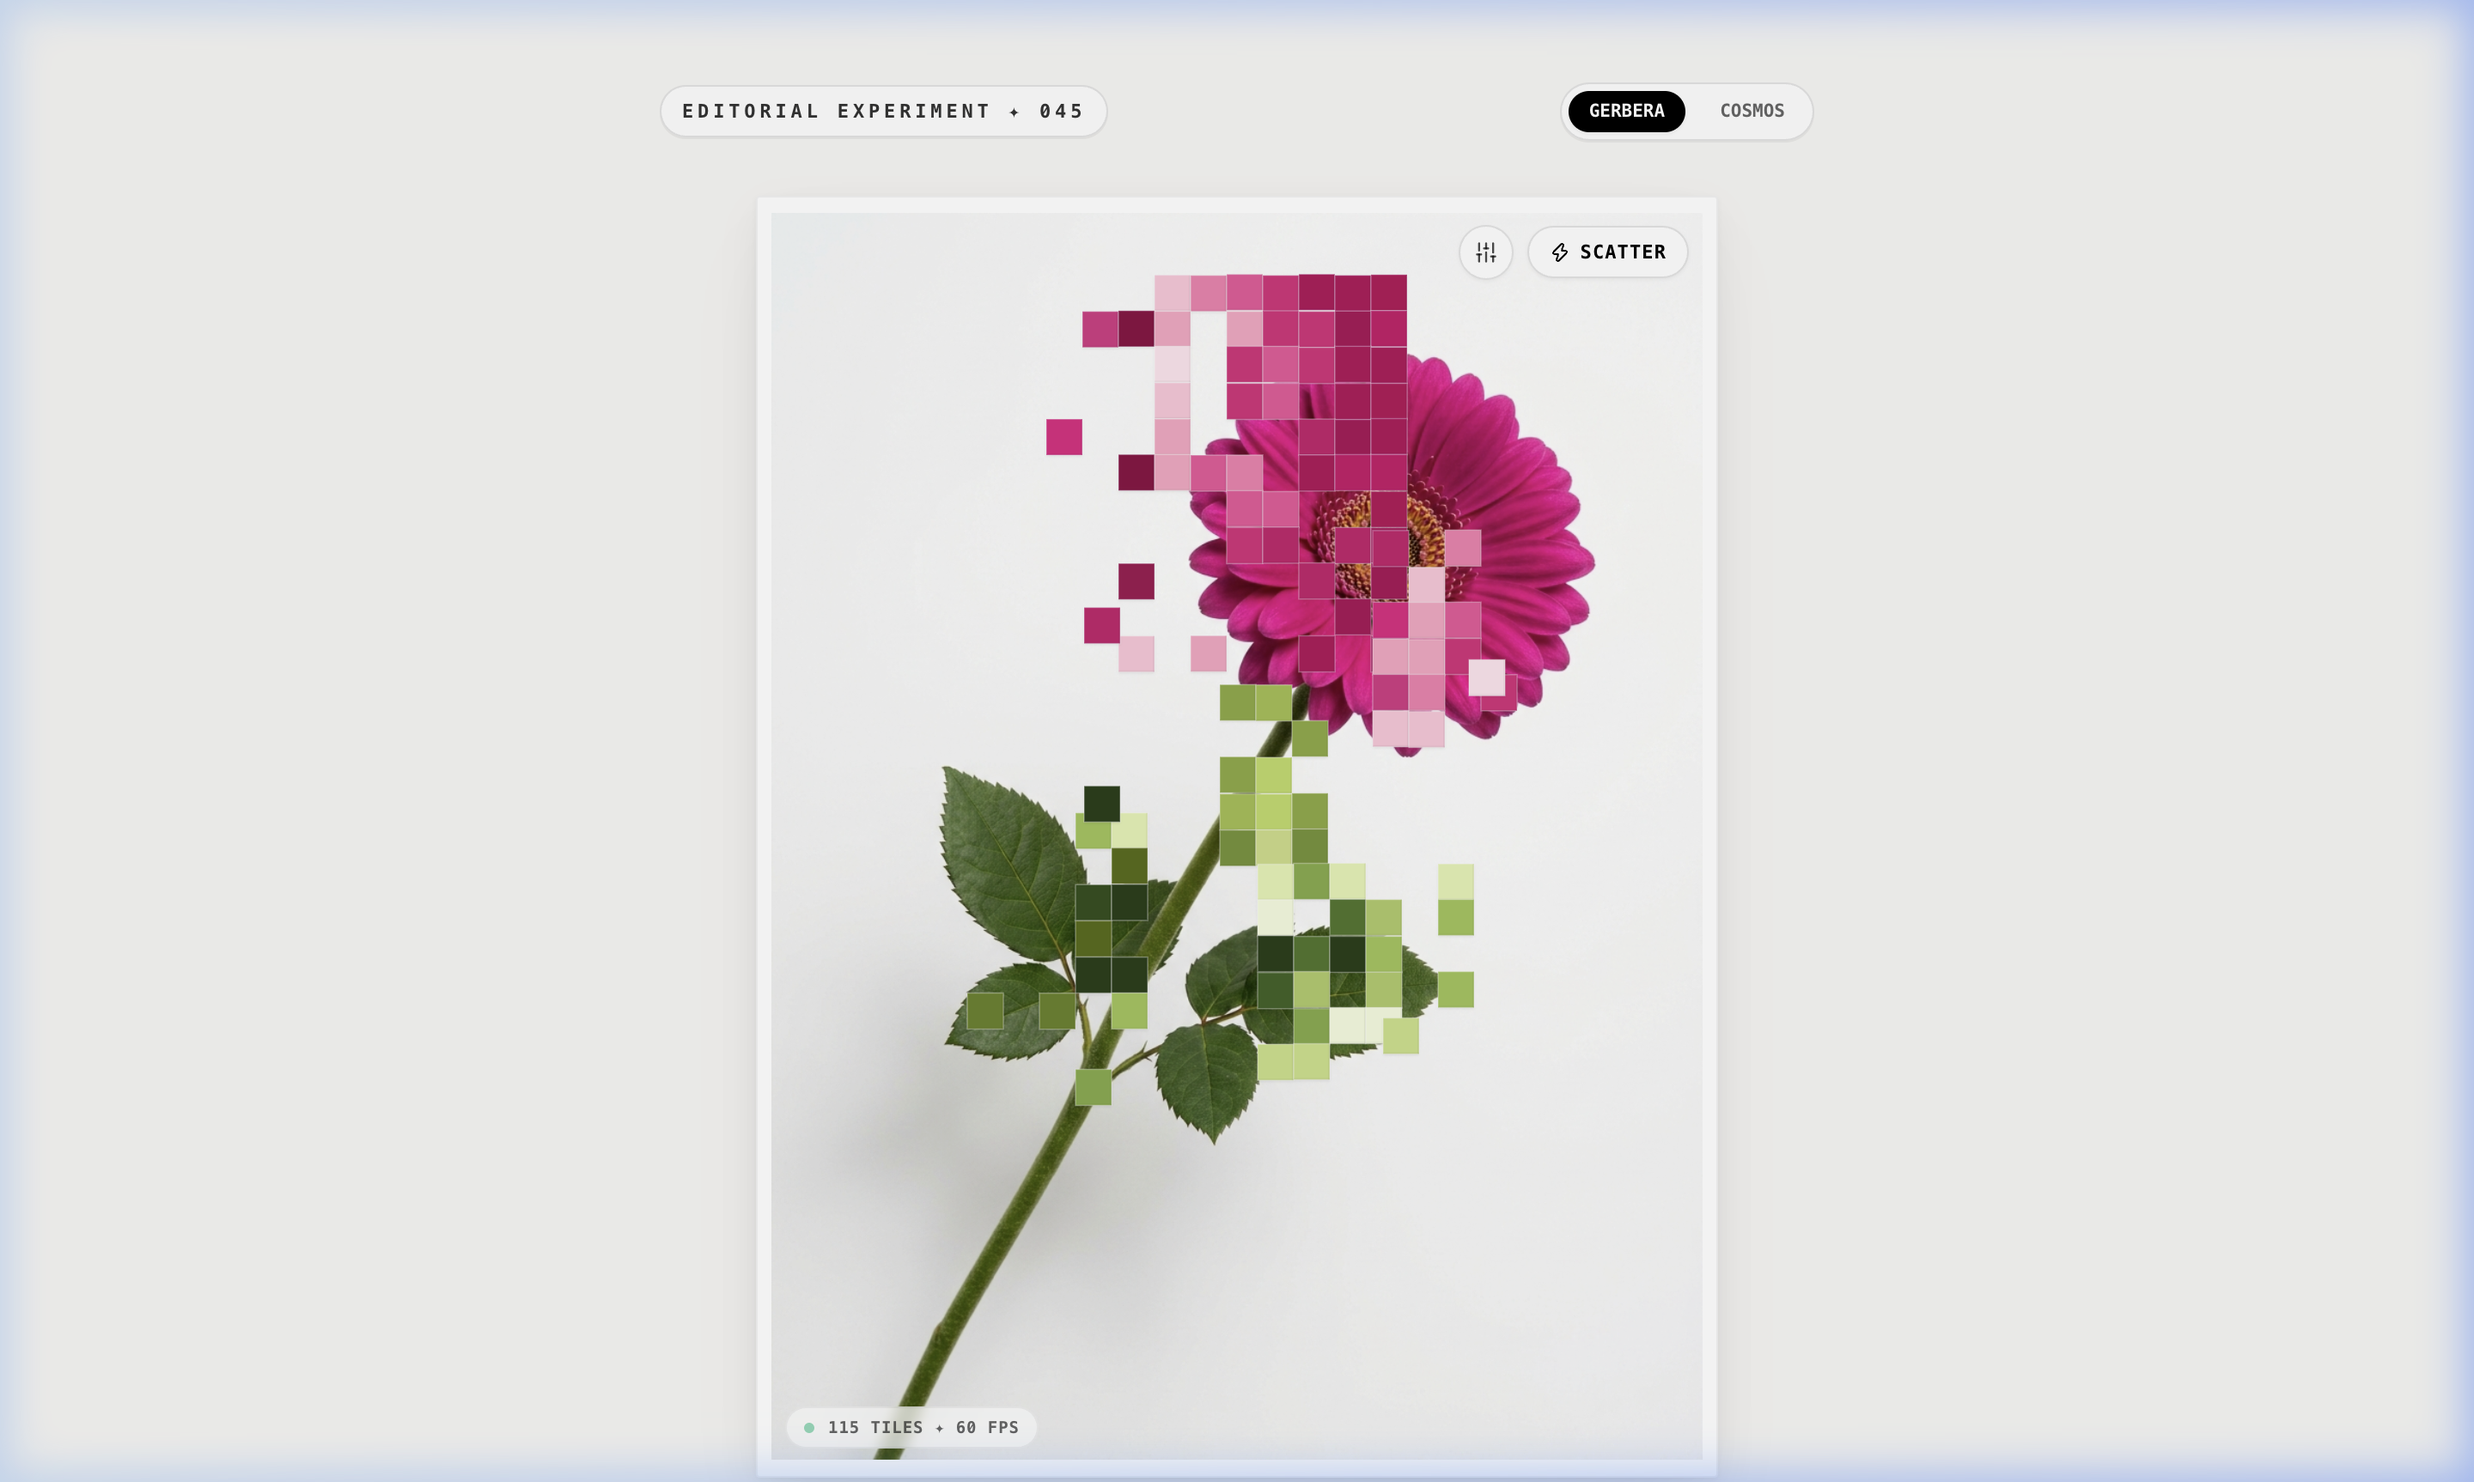
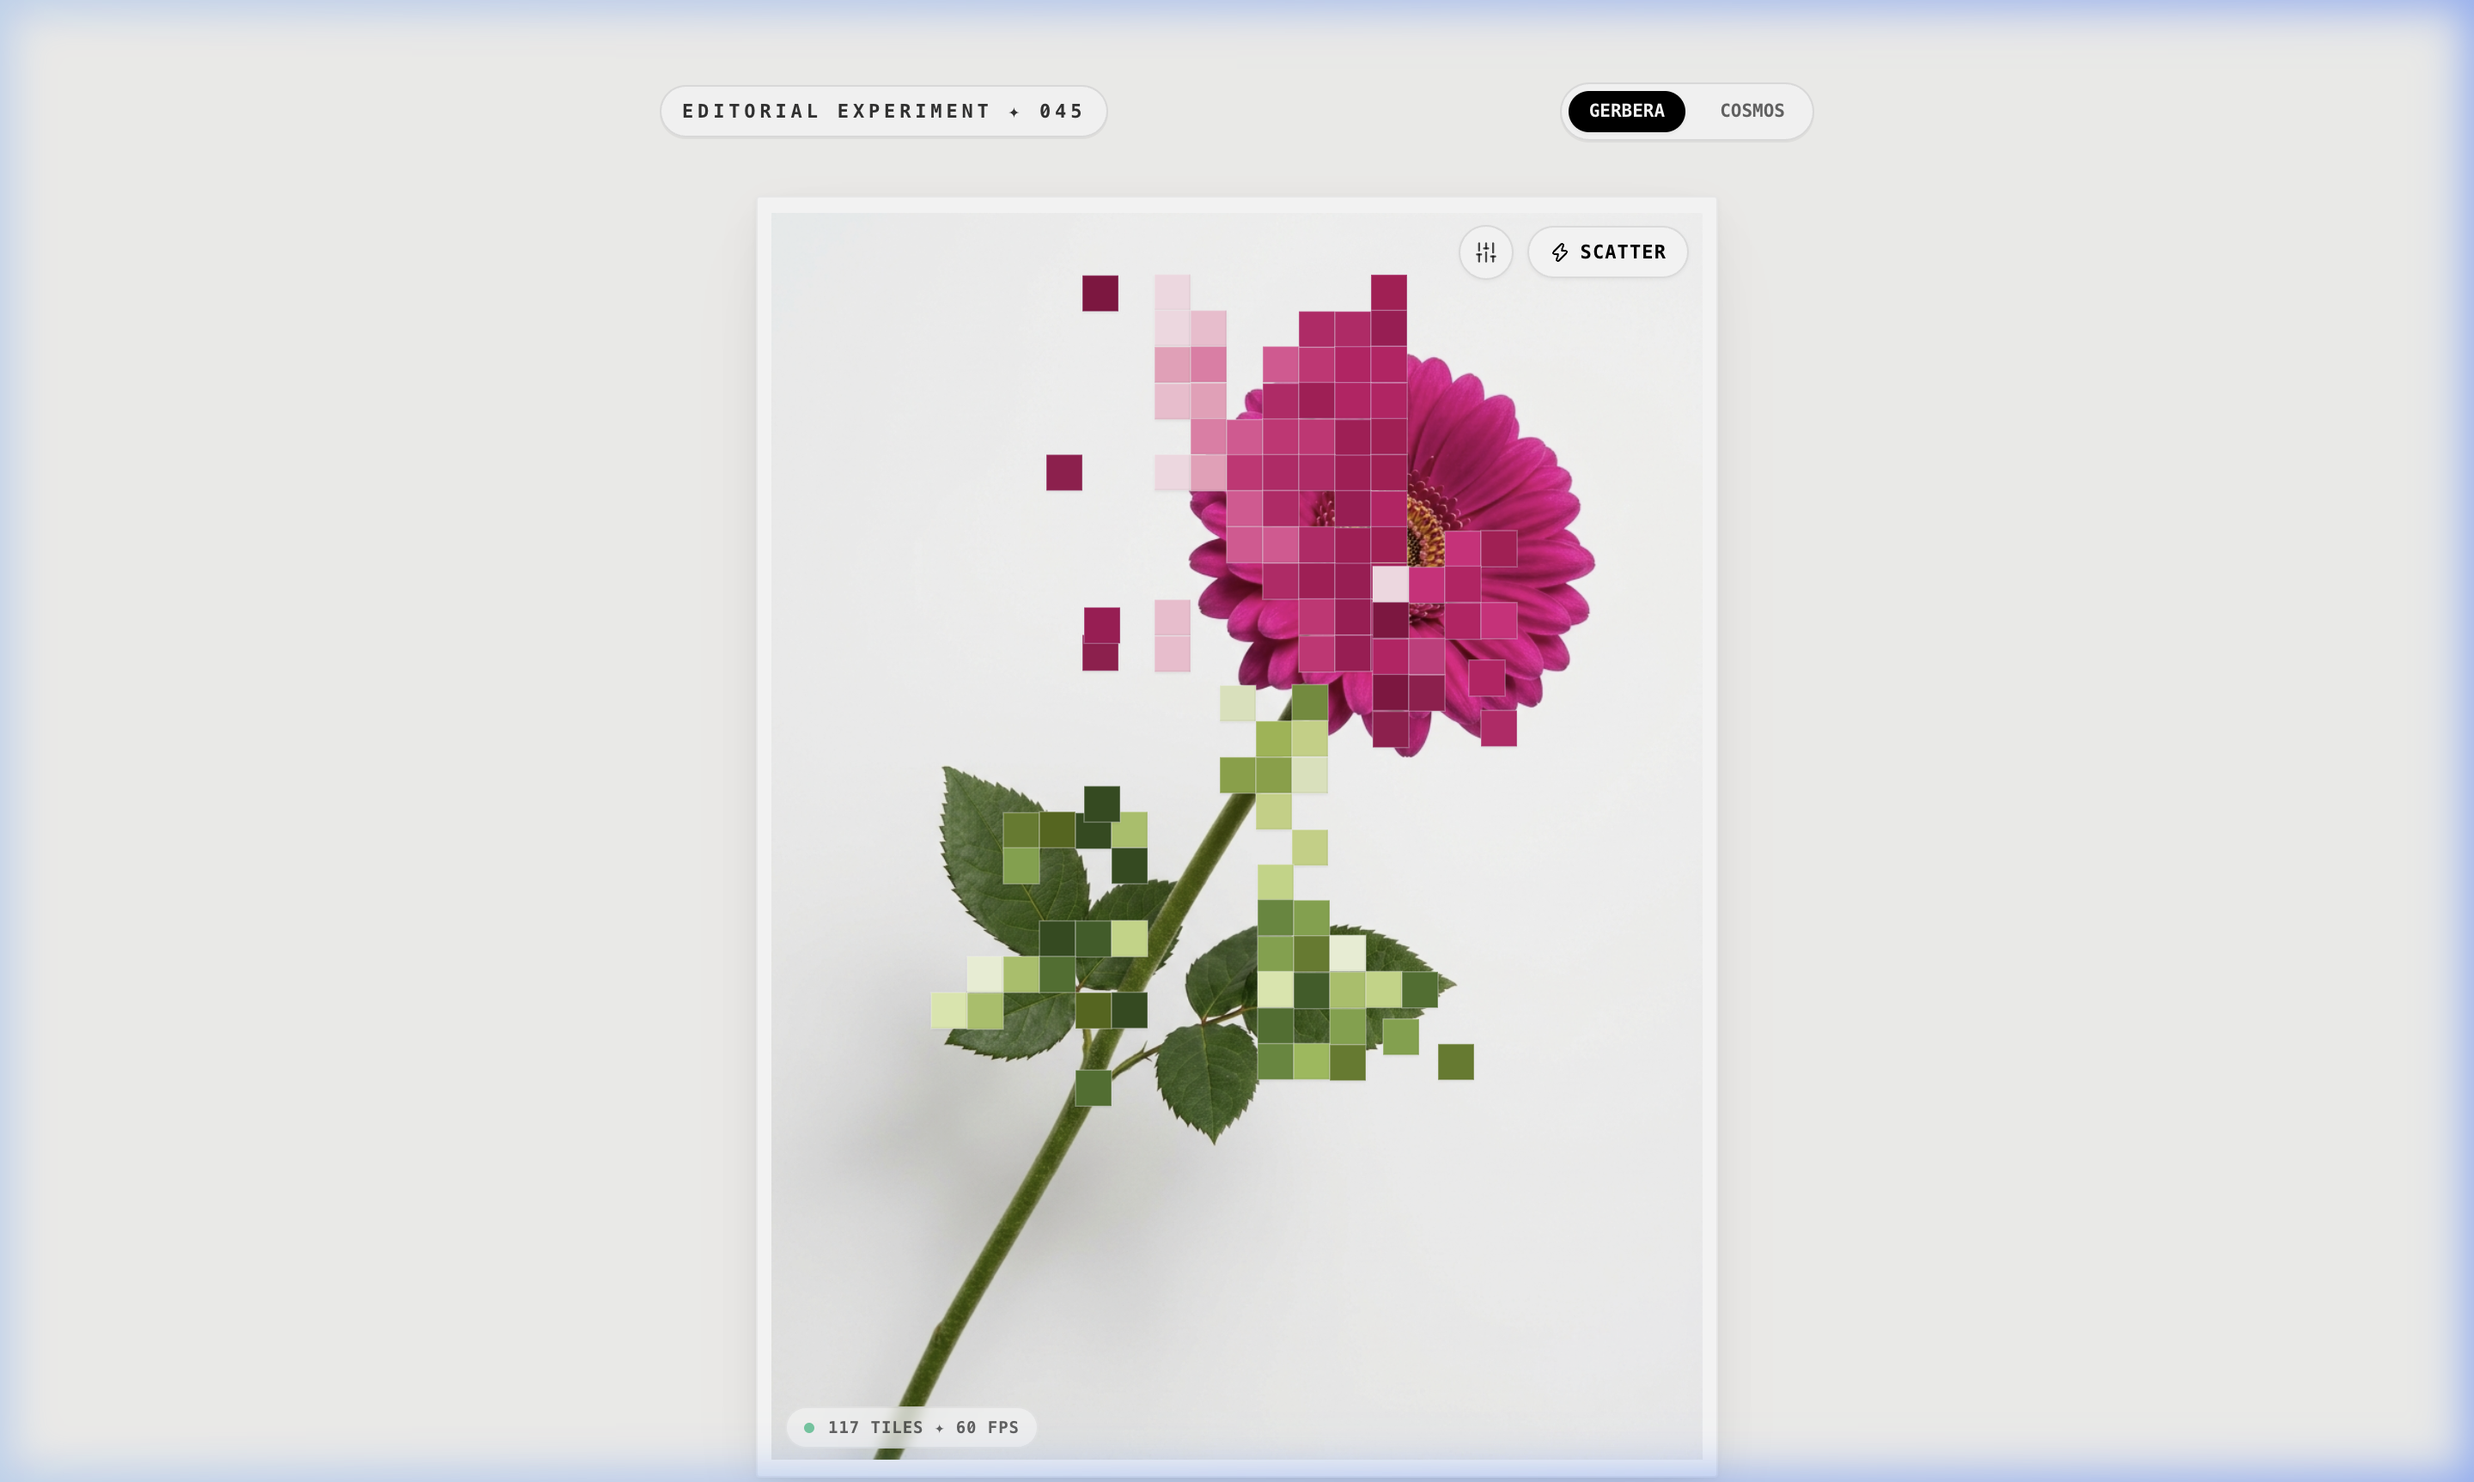
feat: add botanical-pixel-dispersion component with interactive canvas physics and documentation

Changed region(s): [[0.375, 0.1842, 0.625, 0.7677]]

diff --git a/botanical-pixel-dispersion/components/botanical-pixel-dispersion.tsx b/botanical-pixel-dispersion/components/botanical-pixel-dispersion.tsx
@@ -23,6 +23,8 @@ export interface PixelTile {
   id: number
   homeX: number
   homeY: number
+  targetX: number
+  targetY: number
   x: number
   y: number
   vx: number
@@ -164,6 +166,8 @@ export function BotanicalPixelDispersion({
             id: idCounter++,
             homeX: x,
             homeY: y,
+            targetX: x,
+            targetY: y,
             x: x + (Math.random() - 0.5) * 3,
             y: y + (Math.random() - 0.5) * 3,
             vx: 0,
@@ -201,6 +205,8 @@ export function BotanicalPixelDispersion({
             id: idCounter++,
             homeX: x,
             homeY: y,
+            targetX: x,
+            targetY: y,
             x,
             y,
             vx: 0,
@@ -237,6 +243,8 @@ export function BotanicalPixelDispersion({
             id: idCounter++,
             homeX: x,
             homeY: y,
+            targetX: x,
+            targetY: y,
             x,
             y,
             vx: 0,
@@ -274,6 +282,8 @@ export function BotanicalPixelDispersion({
             id: idCounter++,
             homeX: x,
             homeY: y,
+            targetX: x,
+            targetY: y,
             x,
             y,
             vx: 0,
@@ -311,6 +321,8 @@ export function BotanicalPixelDispersion({
             id: idCounter++,
             homeX: x,
             homeY: y,
+            targetX: x,
+            targetY: y,
             x,
             y,
             vx: 0,
@@ -350,6 +362,8 @@ export function BotanicalPixelDispersion({
         id: idCounter++,
         homeX: Math.round(pos.x),
         homeY: Math.round(pos.y),
+        targetX: Math.round(pos.x),
+        targetY: Math.round(pos.y),
         x: Math.round(pos.x),
         y: Math.round(pos.y),
         vx: 0,
@@ -454,18 +468,24 @@ export function BotanicalPixelDispersion({
   const toggleExplode = () => {
     const tiles = tilesRef.current
     if (!isExploded) {
-      // Scatter tiles dramatically across canvas
+      // Scatter tiles dramatically across canvas into floating exploded cloud
       tiles.forEach((tile) => {
-        tile.vx = (Math.random() - 0.5) * 35
-        tile.vy = (Math.random() - 0.5) * 35
-        tile.targetRotation = (Math.random() - 0.5) * 180
-        tile.targetScale = 0.8 + Math.random() * 0.6
-        tile.targetElevation = 12 + Math.random() * 10
+        const angle = Math.random() * Math.PI * 2
+        const distance = 80 + Math.random() * 200
+        tile.targetX = tile.homeX + Math.cos(angle) * distance
+        tile.targetY = tile.homeY + Math.sin(angle) * distance
+        tile.vx = Math.cos(angle) * 12
+        tile.vy = Math.sin(angle) * 12
+        tile.targetRotation = (Math.random() - 0.5) * 120
+        tile.targetScale = 0.85 + Math.random() * 0.45
+        tile.targetElevation = 10 + Math.random() * 12
       })
       setIsExploded(true)
     } else {
       // Snap tiles back home with spring force
       tiles.forEach((tile) => {
+        tile.targetX = tile.homeX
+        tile.targetY = tile.homeY
         tile.targetRotation = 0
         tile.targetScale = 1
         tile.targetElevation = 1
@@ -542,12 +562,15 @@ export function BotanicalPixelDispersion({
           }
         }
 
-        // 2. Spring Force returning tile to its original home position
-        const springStiffness = isExploded ? 0.003 : 0.075
+        // 2. Spring Force returning tile to target position (home or exploded)
+        const springStiffness = isExploded ? 0.05 : 0.08
         const damping = 0.82
 
-        const fx = (tile.homeX - tile.x) * springStiffness
-        const fy = (tile.homeY - tile.y) * springStiffness
+        const targetX = isExploded ? (tile.targetX ?? tile.homeX) : tile.homeX
+        const targetY = isExploded ? (tile.targetY ?? tile.homeY) : tile.homeY
+
+        const fx = (targetX - tile.x) * springStiffness
+        const fy = (targetY - tile.y) * springStiffness
 
         tile.vx = (tile.vx + fx) * damping
         tile.vy = (tile.vy + fy) * damping
@@ -564,7 +587,7 @@ export function BotanicalPixelDispersion({
         tile.rotation += (tile.targetRotation - tile.rotation) * 0.1
         tile.elevation += (tile.targetElevation - tile.elevation) * 0.1
 
-        if (!mouse.isActive || Math.hypot(tile.x - mouse.x, tile.y - mouse.y) >= repulsionRadius) {
+        if (!isExploded && (!mouse.isActive || Math.hypot(tile.x - mouse.x, tile.y - mouse.y) >= repulsionRadius)) {
           tile.targetScale = 1
           tile.targetRotation = 0
           tile.targetElevation = 1

diff --git a/botanical-pixel-dispersion/README.md b/botanical-pixel-dispersion/README.md
@@ -1,0 +1,94 @@
+# 🌸 Botanical Pixel Dispersion
+
+An artisanal, highly interactive botanical UI component inspired by Yuni Yoshida’s iconic physical pixel mosaic artworks. Featuring a high-definition natural flower whose petals, stem, and leaves dissolve into responsive square mosaic tiles that react organically to cursor movement with tactile 3D elevation, spring damping, dynamic scatter physics, and multiple material shaders.
+
+<div align="center">
+  <img src="https://raw.githubusercontent.com/Zuhaib-dev/Flourish-UI/main/botanical-pixel-dispersion/public/Preview.png" width="100%" style="border-radius: 12px; margin-top: 12px; margin-bottom: 24px; box-shadow: 0 4px 20px rgba(0,0,0,0.1);" alt="Botanical Pixel Dispersion Component Preview" />
+</div>
+
+---
+
+## ✨ Features
+
+- **Iconic Botanical Artistry**: Clean, pure botanical flower on an archival gallery paper background, dissolving into square mosaic tiles without any obstructive typography or watermarks.
+- **60 FPS Physical Canvas Simulation**: High-DPI retina-crisp HTML5 canvas physical simulation engine tracking over 115 individual mosaic tiles.
+- **Cursor Physics Engine**:
+  - **Repel**: Tiles magnetically disperse away from the cursor in an organic clearing.
+  - **Vortex**: Tiles swirl around the cursor in a dynamic orbital whirlpool.
+  - **Ripple**: Wave undulations propagate outwards across the tiles.
+  - **Attract**: Magnetic suction pulling tiles toward the cursor.
+- **Tactile 3D Paper Elevation**: Tiles dynamically lift off the canvas paper surface with realistic directional cast shadows, scaling up to 1.35x and tilting with cursor velocity.
+- **Explosive Scatter & Reassemble**: One-click global scatter physics throwing tiles into a floating 3D suspended state with organic spring recovery back to their resting grid.
+- **3 Artisanal Tile Materials**:
+  - **Analog Paper**: Physical cut-paper chips with micro bevels and edge depth.
+  - **Photographic Slices**: Sub-sampled image slices sampled directly from the high-res flower photograph.
+  - **Prismatic Glass**: Translucent frosted glass tiles with luminous specular highlights.
+- **Botanical Variation Switcher**: Toggle between vibrant pink Gerbera Daisy and magenta Cosmos blossoms.
+- **SEO & Production Optimized**: Next.js 16 (App Router), OpenGraph, Twitter Cards, Schema.org `SoftwareSourceCode` JSON-LD author metadata.
+
+---
+
+## 🛠 Tech Stack
+
+- **Framework**: [Next.js 16](https://nextjs.org/) (App Router)
+- **Library**: [React 19](https://react.dev/)
+- **Animation**: [Framer Motion](https://www.framer.com/motion/) & HTML5 Canvas Physics Engine
+- **Styling**: [Tailwind CSS v4](https://tailwindcss.com/)
+- **Icons**: [Lucide React](https://lucide.dev/)
+- **Fonts**: *Plus Jakarta Sans*, *JetBrains Mono*, *Space Grotesk*
+
+---
+
+## 📦 Quick Start
+
+```bash
+# Clone the repository
+git clone https://github.com/Zuhaib-dev/Flourish-UI.git
+
+# Navigate to the component directory
+cd Flourish-UI/botanical-pixel-dispersion
+
+# Install dependencies
+pnpm install
+
+# Run the development server
+pnpm dev
+```
+
+Open [http://localhost:3000](http://localhost:3000) to view the exhibition canvas.
+
+---
+
+## 🧩 Component API
+
+```tsx
+import { BotanicalPixelDispersion } from './components/botanical-pixel-dispersion'
+
+export default function Example() {
+  return (
+    <BotanicalPixelDispersion
+      flowerImageSrc="/flower.jpg"
+      flowerAlt="Vibrant Pink Gerbera Daisy — Botanical Pixel Dispersion"
+      initialTileStyle="analog" // 'analog' | 'photo' | 'glass'
+      initialPhysicsMode="repel" // 'repel' | 'vortex' | 'ripple' | 'attract'
+    />
+  )
+}
+```
+
+### Props
+
+| Prop | Type | Default | Description |
+| :--- | :--- | :--- | :--- |
+| `flowerImageSrc` | `string` | `'/flower.jpg'` | Path to high-definition flower base image |
+| `flowerAlt` | `string` | `'Botanical Gerbera Daisy'` | Accessible alternative description |
+| `initialTileStyle` | `'analog' \| 'photo' \| 'glass'` | `'analog'` | Visual material of the mosaic chips |
+| `initialPhysicsMode` | `'repel' \| 'vortex' \| 'ripple' \| 'attract'` | `'repel'` | Dynamic mouse interaction physics algorithm |
+| `className` | `string` | `''` | Optional extra container classes |
+
+---
+
+## 🖤 Author
+
+Crafted with care by **[Zuhaib Rashid](https://www.zuhaibrashid.com)**.
+Part of the **[Flourish UI](https://github.com/Zuhaib-dev/Flourish-UI)** collection.

diff --git a/README.md b/README.md
@@ -28,6 +28,14 @@
 
 ## 📦 The Collection
 
+### 🌸 [Botanical Pixel Dispersion](./botanical-pixel-dispersion)
+An artisanal botanical UI component inspired by Yuni Yoshida’s iconic physical pixel mosaic artworks. Featuring a high-definition natural flower whose petals, stem, and leaves dissolve into responsive square mosaic tiles that react organically to cursor movement with tactile 3D elevation, spring damping, dynamic scatter physics, and multiple material shaders.
+<div align="center">
+  <img src="https://raw.githubusercontent.com/Zuhaib-dev/Flourish-UI/main/botanical-pixel-dispersion/public/Preview.png" width="100%" style="border-radius: 12px; margin-top: 12px; margin-bottom: 24px; box-shadow: 0 4px 20px rgba(0,0,0,0.1);" alt="Botanical Pixel Dispersion" />
+</div>
+
+---
+
 ### 📎 [Shelter Skin — Meet The Team Dossier](./shelter-skin-team-dossier)
 A tactile, editorial questionnaire dossier card and interactive modal component crafted for skincare and beauty brands. Featuring an archival cream paper questionnaire sheet, a clipped 35mm film Polaroid photo held by a metallic paperclip, authentic gel-pen handwriting typography, hand-drawn ink doodles, and dual presentation modes (modular card or modal overlay).
 <div align="center">
